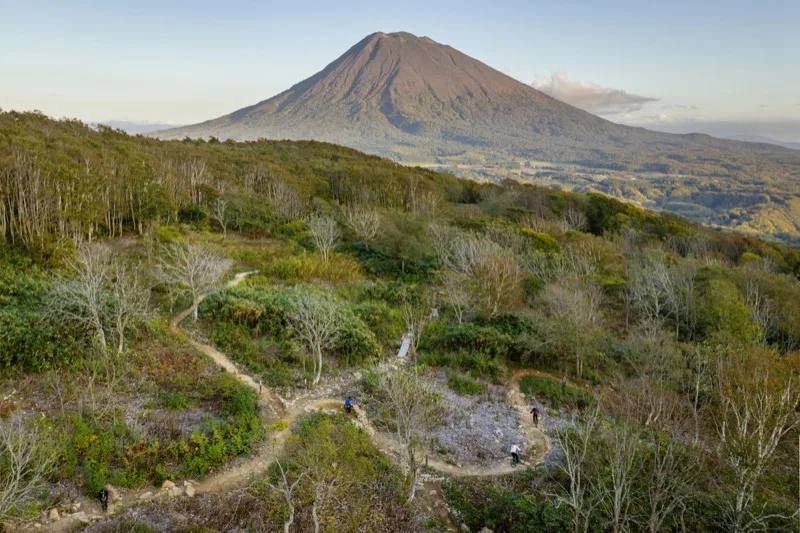
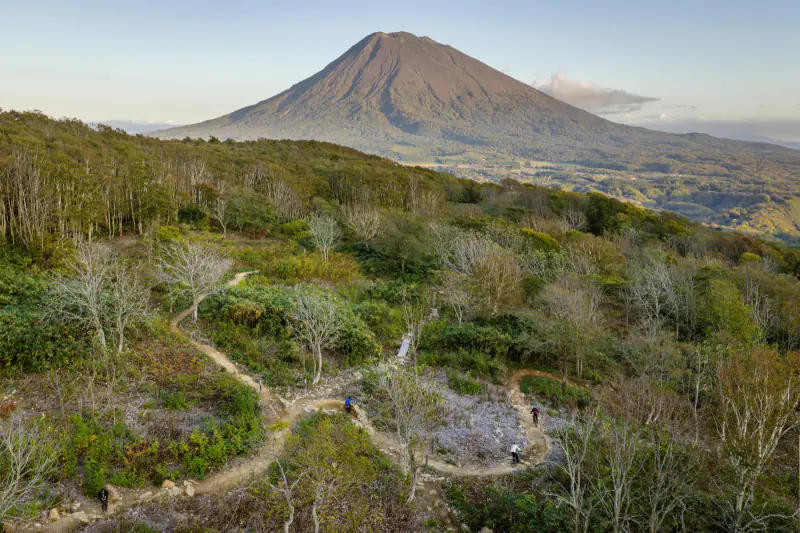
perf: serve 800w masthead tier to phones + re-encode base tiers (q72)
Mobile LCP on every page is the masthead hero. Phones (high DPR) were pulling
the 1200w tier (~200-320KB) for a decorative image sitting behind a dark scrim,
where ~800w is indistinguishable. Set sizes='(max-width:768px) 60vw, 100vw' in
the masthead partial so phones pull the 800w tier (~half the bytes); desktop
keeps 100vw / full res (already fast). Image still displays full-width; the
slight upscale is hidden by the scrim (verified visually at 412px).

Also re-encode the base (800w) tiers at q72 (the worst masthead photos are
high-detail foliage that doesn't compress small): 4 park heroes + 10 heavy
bg-header heroes, ~200KB saved across the bg-header set. The twinpeaks LCP image
the phone fetches drops 319KB -> 127KB.

Local Jekyll is unminified so absolute FCP/LCP there is not representative;
tier-selection + visual quality verified locally, LCP to be confirmed on prod.

diff --git a/_includes/masthead.html b/_includes/masthead.html
@@ -21,9 +21,19 @@
   <div class="ja-masthead">
     <div class="ja-masthead-bg" aria-hidden="true">
       <picture>
+        {%- comment -%}
+          The masthead is a decorative hero sitting behind a dark scrim + the
+          title text, so it does not need full retina density on phones. Declare
+          a 60vw slot below 768px so high-DPR phones pull the 800w tier (~half
+          the bytes of the 1200w tier) instead of over-fetching for a dimmed
+          background. The image still displays full-width (CSS width:100%); the
+          slight upscale is imperceptible behind the scrim. Tablet/desktop keep
+          100vw (full res) and already hit a fast LCP. This is the mobile-LCP
+          lever, applied site-wide via this partial.
+        {%- endcomment -%}
         <source type="image/webp"
                 srcset="{{ mh_base }}-mobile.webp 400w, {{ mh_base }}.webp 800w, {{ mh_base }}-medium.webp 1200w, {{ mh_base }}-large.webp 1600w"
-                sizes="100vw">
+                sizes="(max-width: 768px) 60vw, 100vw">
         <img src="{{ masthead_img }}" alt=""
              width="{{ masthead_width }}" height="{{ masthead_height }}"
              loading="eager" fetchpriority="high" decoding="async">
